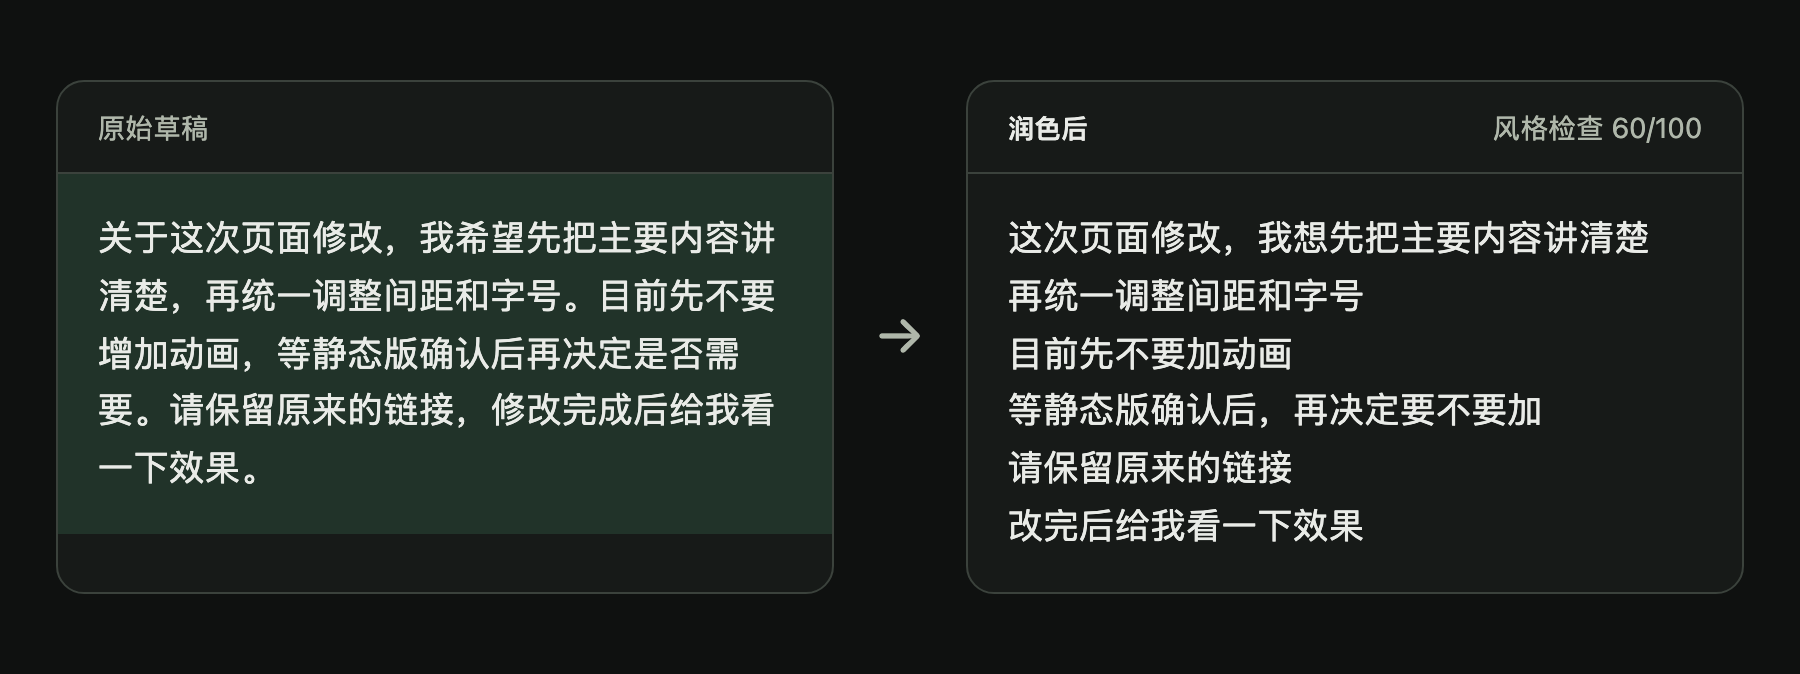
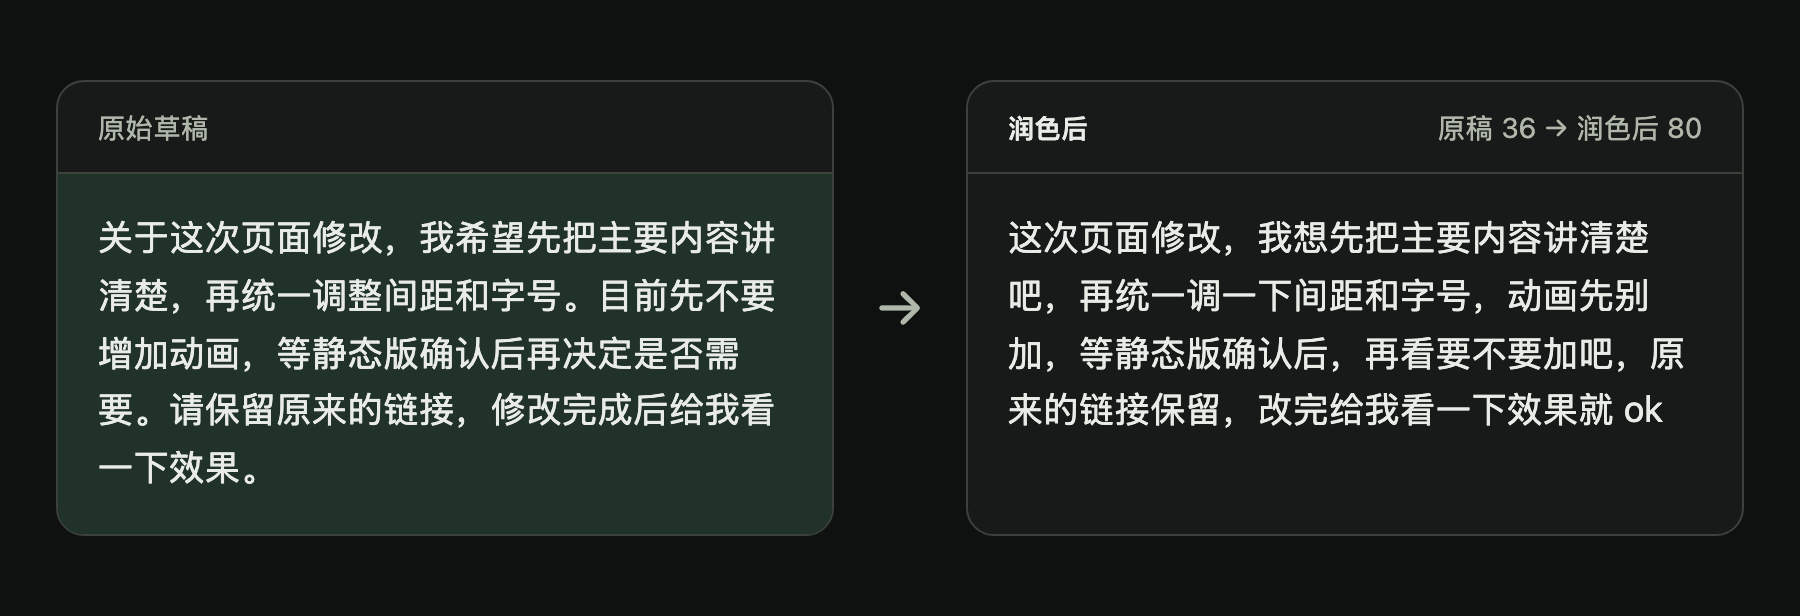
F1: compare unchanged draft and real profile-guided rewrite at 36 to 80

diff --git a/README.md b/README.md
@@ -9,7 +9,7 @@ Let AI polish drafts in your own voice.
   <img src="docs/readme/hero-light.png" alt="An original Chinese draft beside its agent-polished revision" width="838">
 </picture>
 
-Generated by an agent using the bundled example profile (synthetic).
+Agent-generated with the example profile; voice match = 100 minus profile-mismatch and banned-phrase penalties.
 
 ## Quick start
 
@@ -58,7 +58,7 @@ See the [usage reference](docs/reference.md).
 
 **What was tested?** The core polish ran with the bundled example profile, then check.py scored it; this measures style habits, not editing quality. No real personal sessions were read.
 
-**What does 60/100 mean?** This example has fewer English words and particles than the profile; it measures statistical habits, not editing quality.
+**What does 36 → 80 mean?** check.py starts at 100 and deducts profile-mismatch and banned-phrase penalties; the rewrite still loses 20 for sentence length.
 
 <details><summary>Privacy boundary</summary>
 

diff --git a/README.zh-CN.md b/README.zh-CN.md
@@ -9,7 +9,7 @@
   <img src="docs/readme/hero-light.zh-CN.png" alt="原创中文草稿与 agent 润色后的结果" width="838">
 </picture>
 
-由 agent 用附带的示例档案生成，草稿与档案均为虚构示例。
+由 agent 用附带的示例档案生成；口吻匹配度 = 100 减去档案差异和禁用语扣分。
 
 ## 快速开始
 
@@ -58,7 +58,7 @@ gh repo clone bmdy6/skill-style-polish .agents/skills/style-polish
 
 **已经完整测试了吗？** 已实跑示例润色并用 check.py 打分；分数只衡量文风统计，不代表改稿质量，未读取真实个人会话。
 
-**60/100 代表什么？** 它比较文风统计，这个纯中文示例的英文和语气词频率低于档案；不代表改稿质量。
+**36 → 80 是什么意思？** check.py 从 100 分扣除档案差异和禁用语扣分；这次润色仍因句长偏差扣了 20 分。
 
 <details><summary>隐私边界</summary>
 
